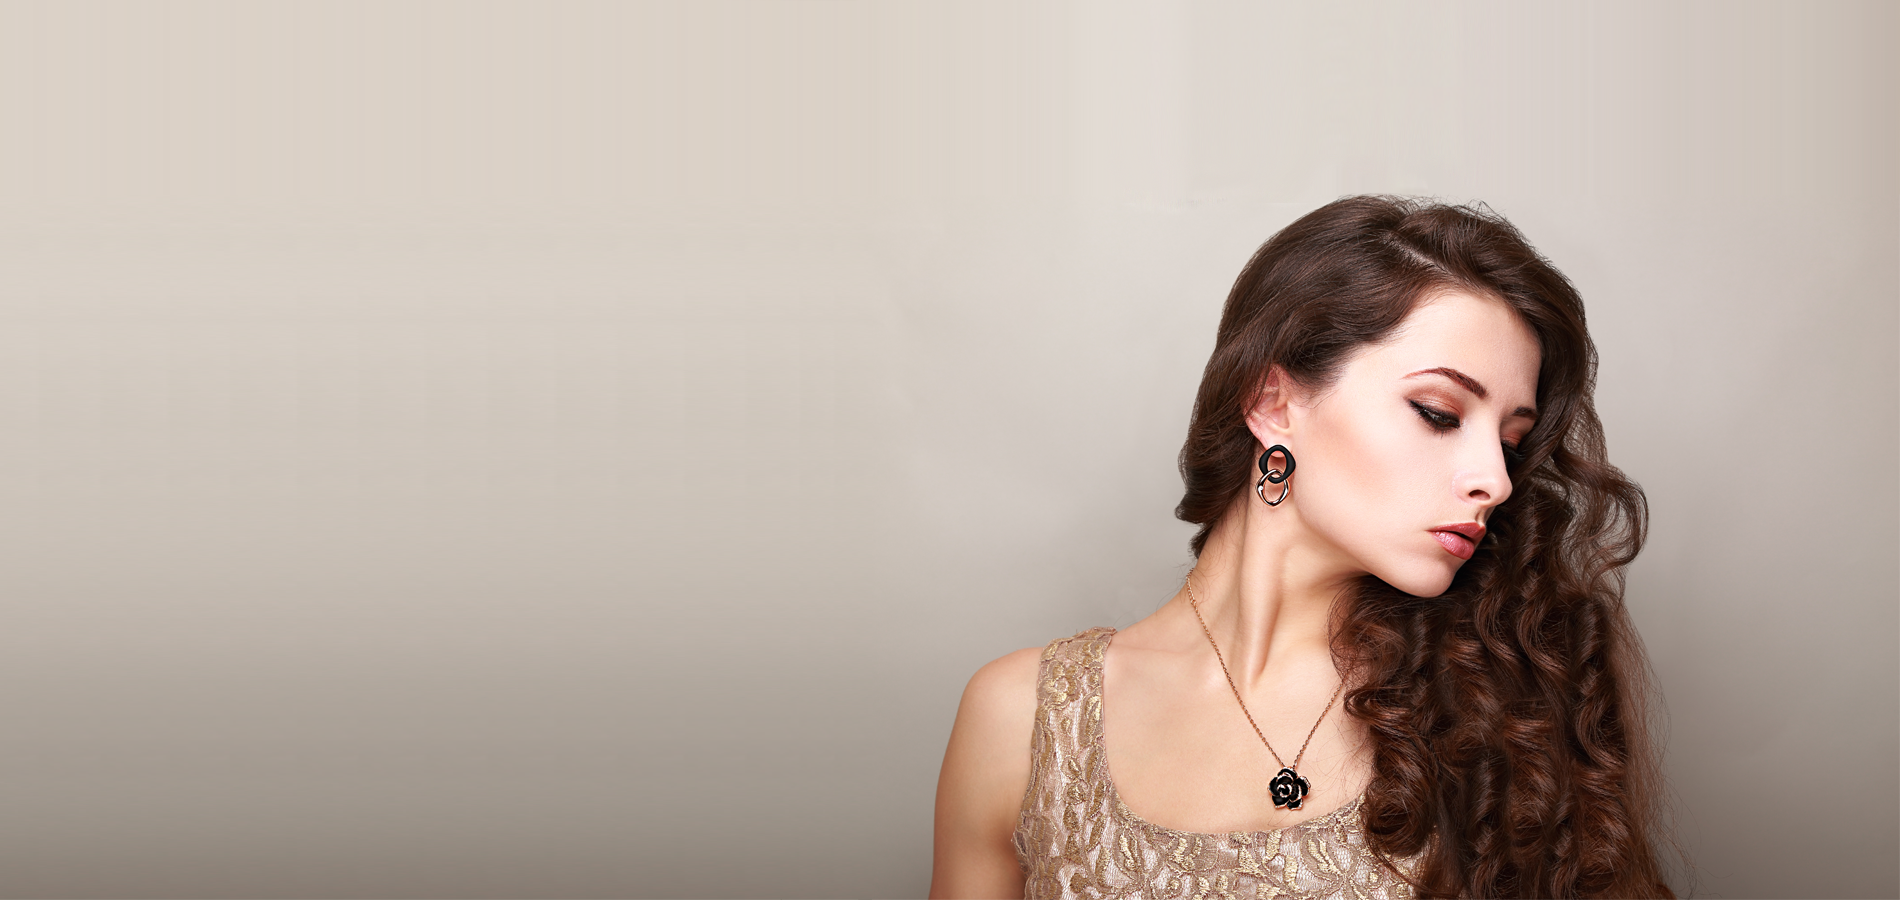
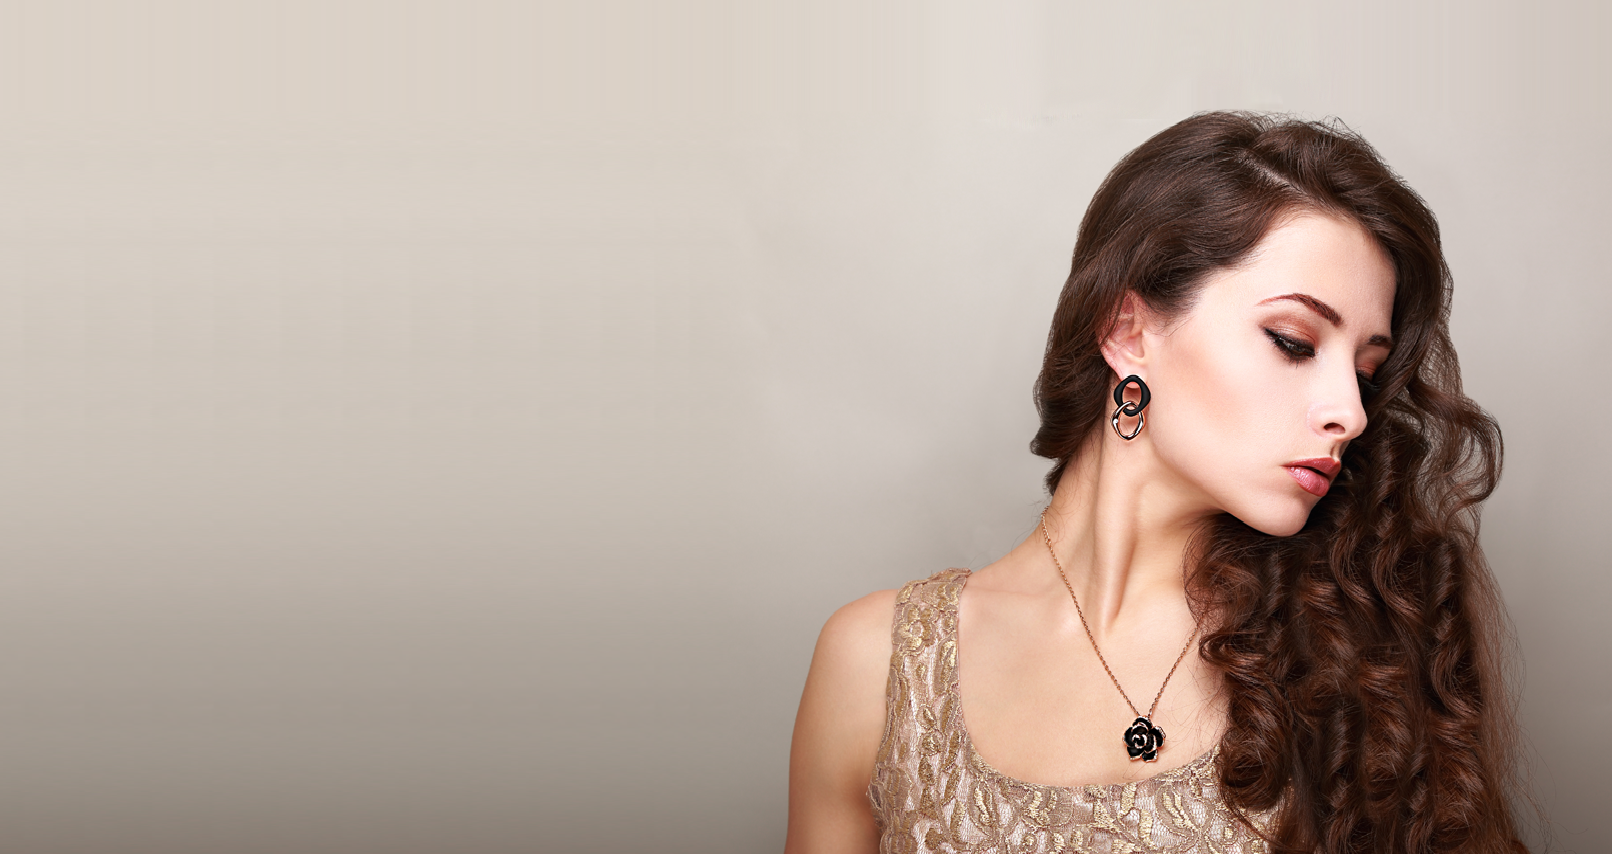
amazon account production live

Changed region(s): [[0.4963, 0.1218, 0.9615, 1.0]]

diff --git a/thankyou.html b/thankyou.html
@@ -23,8 +23,8 @@ if(isset($_GET["amznPmtsOrderIds"]) && isset($_GET["amznPmtsReqId"]) ) {
 
     /* update the stock quantity in components table for all the elements in this order for inventory */
 
-        $eids = [];
-     $qry = "SELECT elementid FROM `customdesign` where productid in (SELECT productid FROM `order_products` where orderid=$myorderId)";
+      $qry = "SELECT productid FROM `order_products` where orderid=$myorderId";
+       //echo $qry;
        if(!$stmt = $dbcon->prepare($qry)){
          die('select Error : ('. $dbcon->errno .') '. $dbcon->error);
      }
@@ -36,38 +36,63 @@ if(isset($_GET["amznPmtsOrderIds"]) && isset($_GET["amznPmtsReqId"]) ) {
      $stmt->store_result();
      $stmt->bind_result($a);
      while ($stmt->fetch()) {
-      $eids[] = $a;
-     }
-     $stmt->close();
+        $elemqry = "SELECT elementid FROM `customdesign` where productid=$a";
+       //  echo $elemqry;
+       //  echo "<br>";
 
-      if(count($eids) > 0) {
-        foreach($eids as $ee) {
+        if(!$estmt = $dbcon->prepare($elemqry)){
+             die('select Error : ('. $dbcon->errno .') '. $dbcon->error);
+         }
+
+         if(!$estmt->execute()){
+             die('Error : ('. $dbcon->errno .') '. $dbcon->error);
+         }
+
+         $estmt->store_result();
+         $estmt->bind_result($ee);
+         while ($estmt->fetch()) {
+
             $compqry = "SELECT complist, compquantity from pieces where id=$ee";
-             if(!$stmt = $dbcon->prepare($compqry)){
+              //  echo $compqry;
+              //  echo "<br>";
+
+             if(!$cstmt = $dbcon->prepare($compqry)){
                  die('select Error : ('. $dbcon->errno .') '. $dbcon->error);
              }
 
-             if(!$stmt->execute()){
+             if(!$cstmt->execute()){
                  die('Error : ('. $dbcon->errno .') '. $dbcon->error);
              }
 
-             $stmt->store_result();
-             $stmt->bind_result($a, $b);
-             while ($stmt->fetch()) {
+             $cstmt->store_result();
+             $cstmt->bind_result($a1, $b1);
+             while ($cstmt->fetch()) {
 
-                $compupdqry = "update components set stock=stock-2 where compid in ('".implode("','", explode("," , $a))."')";
-                    //echo $compupdqry;
-                $updstmt = $dbcon->prepare($compupdqry);
+                    $complistarr =  explode("," , $a1);
+                    $compqarr =  explode("," , $b1);
 
-                if(!$updstmt->execute()){
-                    die(' UPDATE order update Error : ('. $dbcon->errno .') '. $dbcon->error);
-                }
-                $updstmt->close();
+                    for($in=0; $in < count($compqarr); $in++) {
+                        $compupdqry = "update components set stock=stock-($compqarr[$in]*2) where compid = '$complistarr[$in]'";
+                       // echo $compupdqry;
+                       // echo "<br>";
+                        $updstmt = $dbcon->prepare($compupdqry);
+
+                        if(!$updstmt->execute()){
+                            die(' UPDATE order update Error : ('. $dbcon->errno .') '. $dbcon->error);
+                        }
+                        $updstmt->close();
+                    }
+
+
              }
-             $stmt->close();
+             $cstmt->close();
 
-        }
-      }
+         }
+         $estmt->close();
+
+     }
+     $stmt->close();
+
 
 }
 

diff --git a/css/main.css b/css/main.css
@@ -138,7 +138,7 @@ article.item.read-full .item-body:after {
   background-repeat: no-repeat;
   background-attachment: fixed;
   background-size: cover;
-  background-position: right top;
+  background-position: right;
   overflow: hidden;
   height: 610px;
   /* height: 96vh; */

diff --git a/css/theme.css b/css/theme.css
@@ -1079,7 +1079,7 @@ body {
   line-height: 1.42857143;
   color: #333333;
   background-color: #ffffff;
-  /*padding-top: 100px;*/
+  padding-top: 100px;
 }
 input,
 button,
